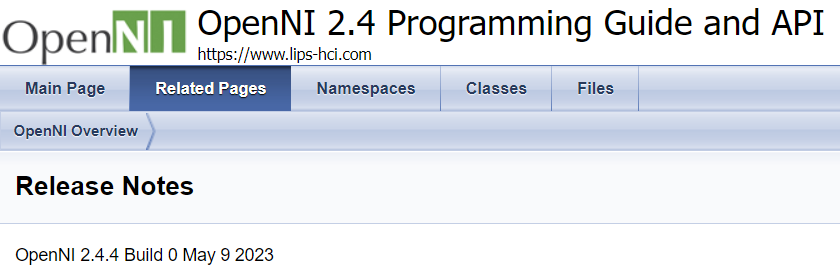
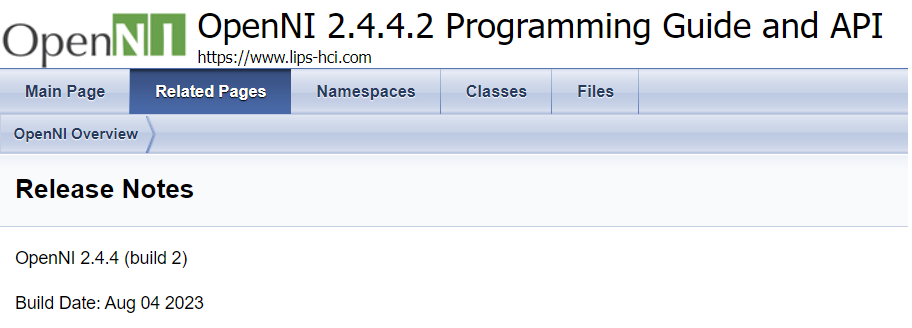
revise openni API version to 2.4.4.2

diff --git a/4.-apis/apis-for-openni2.md b/4.-apis/apis-for-openni2.md
@@ -1,7 +1,7 @@
 # APIs for OpenNI2
 
-Currently, it is OpenNI 2.4.4 for index.html (under directory of Documentation\cpp)
+Currently, it is OpenNI 2.4.4.2 in index.html (under directory of OpenNI2\Documentation\cpp)
 
-Built on May 9 2023
+Built on Aug 4 2023
 
 ![](<../.gitbook/assets/global_camera/image (8).png>)
